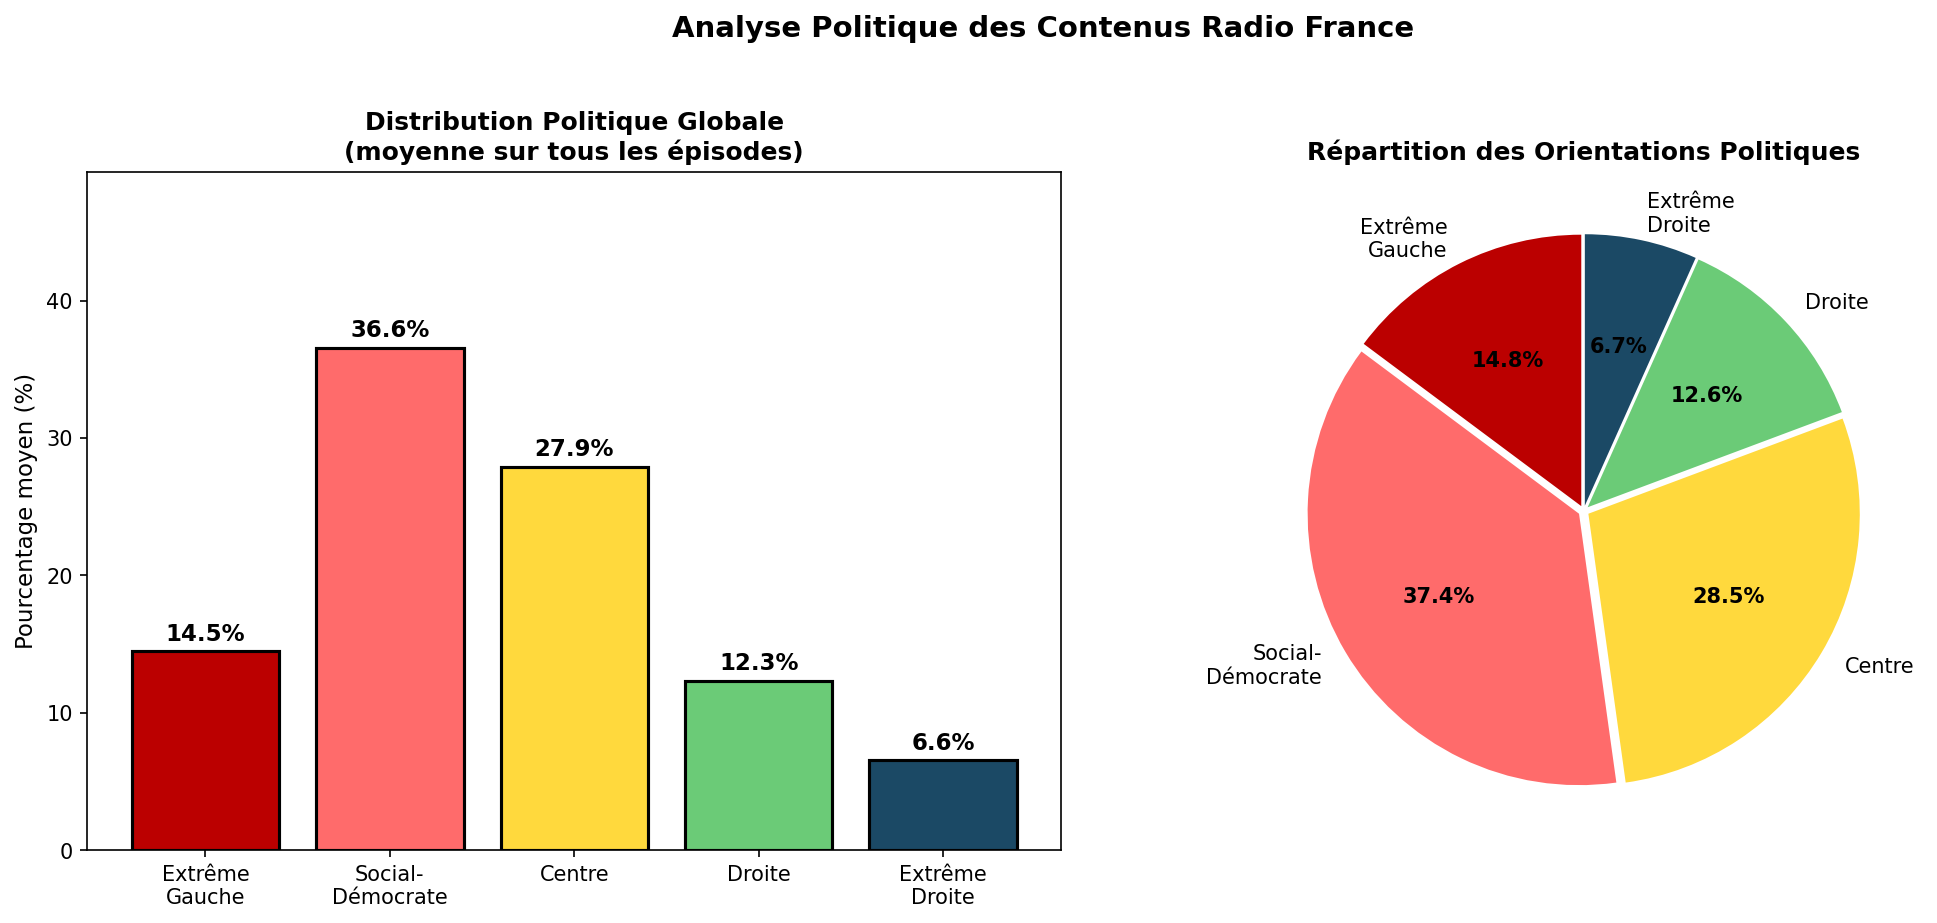
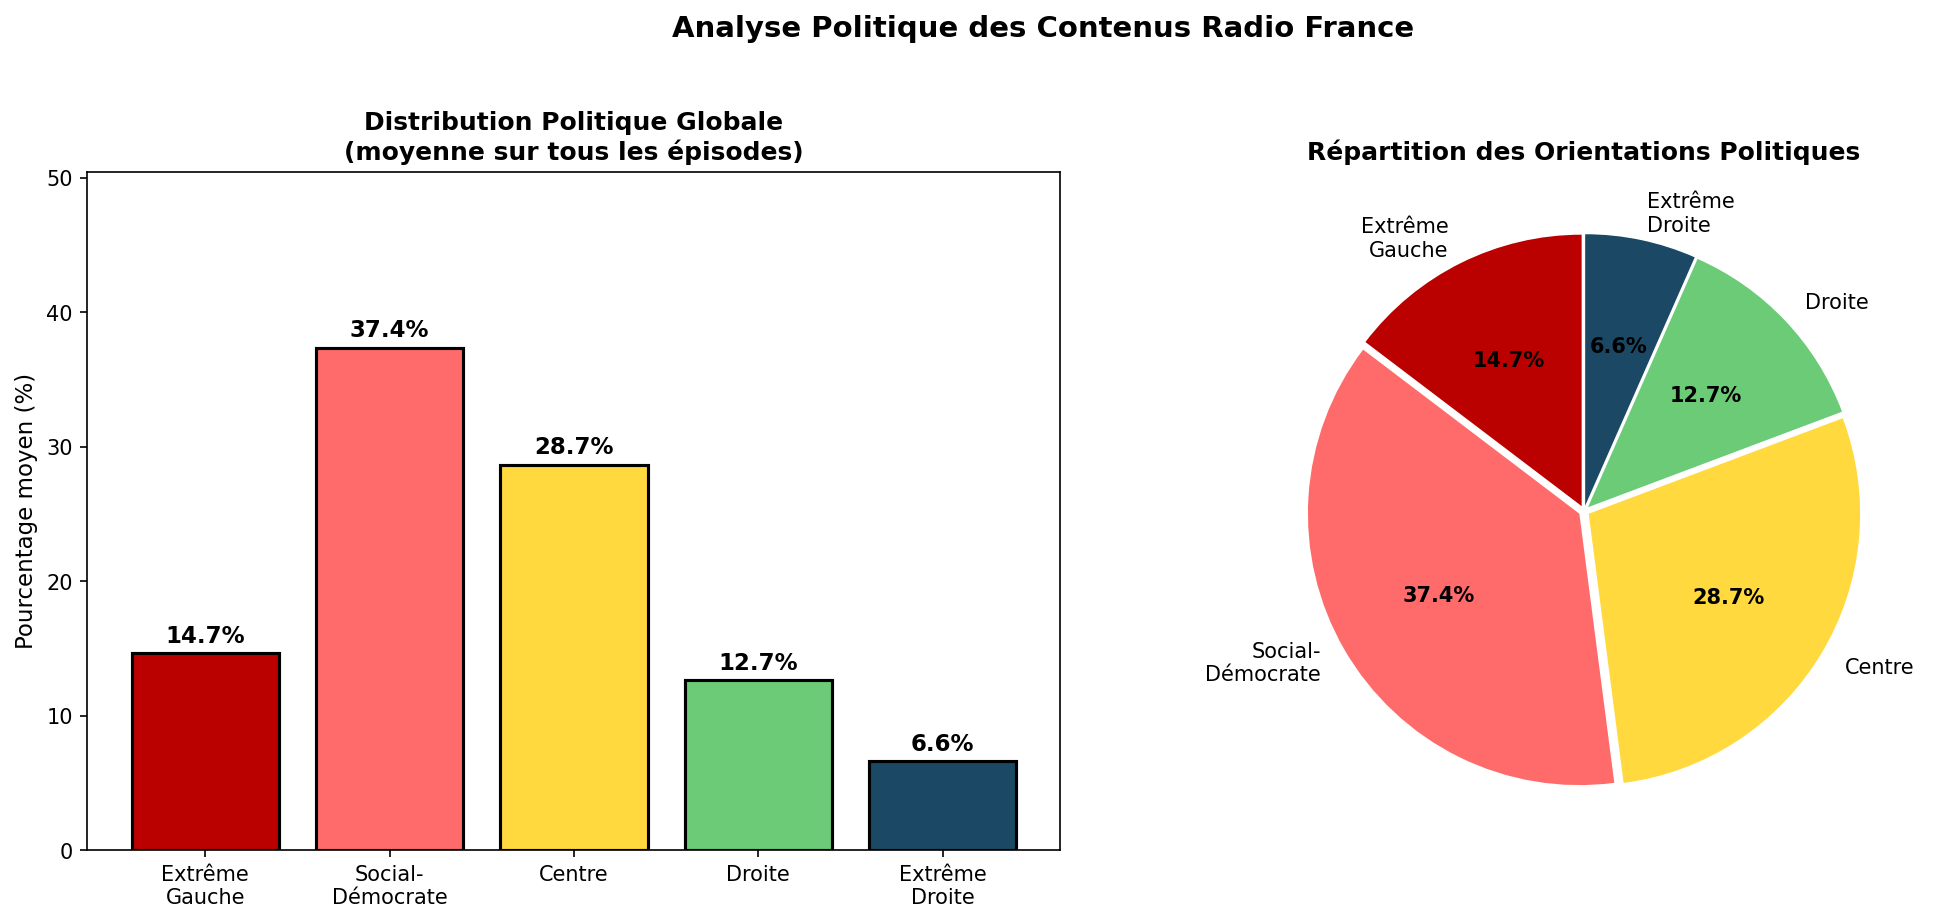
fix(readme): improved Readme

diff --git a/README.md b/README.md
@@ -43,11 +43,14 @@ Ce projet analyse automatiquement l'orientation politique des émissions de Fran
 
 | Orientation          | Pourcentage |
 | -------------------- | :---------: |
-| Extrême gauche       |    14,5%    |
-| **Social-démocrate** |  **36,6%**  |
-| Centre               |    27,9%    |
-| Droite               |    12,3%    |
+| Extrême gauche       |    14,7%    |
+| **Social-démocrate** |  **37,4%**  |
+| Centre               |    28,7%    |
+| Droite               |    12,7%    |
 | Extrême droite       |    6,6%     |
+
+**Total Gauche** (Extrême gauche + Social-démocrate) : **52,1%**  
+**Total Droite** (Droite + Extrême droite) : **19,3%**
 
 ### Biais éditorial détecté
 
@@ -202,13 +205,13 @@ Pour valider la calibration, nous recommandons de tester avec des discours de pe
 2. **Uploadez** sur Google Drive et récupérez le lien de partage
 3. **Convertissez** le lien :
 
-   ```
+```
    # Lien de partage :
    https://drive.google.com/file/d/XXXXX/view?usp=sharing
 
    # Lien de téléchargement direct :
    https://drive.google.com/uc?export=download&id=XXXXX
-   ```
+```
 
 4. **Exécutez** `calibration.ipynb` avec cette URL
 5. **Comparez** le résultat avec l'orientation attendue
@@ -259,7 +262,6 @@ https://...,L'édito politique,Titre de l'épisode,2024-01-15,Description...,Fal
 radiofrance-analysis/
 ├── 📓 radiofrance.ipynb           # Notebook principal (transcription + analyse)
 ├── 📓 calibration.ipynb           # Notebook de test/calibration du modèle
-├── 📓 visualization.ipynb         # Notebook de visualisation des résultats
 │
 ├── 📄 franceinter.csv             # Données d'entrée (URLs des épisodes)
 ├── 📄 transcription_results.json  # Transcriptions avec diarisation
@@ -282,31 +284,67 @@ radiofrance-analysis/
 
 ### Limites méthodologiques
 
-| Limite                     | Description                                          | Impact |
-| -------------------------- | ---------------------------------------------------- | ------ |
-| **Erreurs de calcul LLM**  | La répartition politique n'atteint pas toujours 100% | Moyen  |
-| **Subjectivité du prompt** | Le prompt influence les résultats                    | Élevé  |
-| **Granularité temporelle** | Analyse par émission, pas à la minute                | Moyen  |
-| **Un seul LLM**            | Biais spécifiques à GPT-4.1-mini                     | Élevé  |
+- **Erreurs de calcul du LLM** : Les pourcentages de répartition politique n'atteignent pas toujours exactement 100%. Un système de normalisation a été implémenté pour corriger ces écarts, mais cela introduit une légère approximation dans les scores finaux.
+
+- **Subjectivité du prompt** : Le prompt d'analyse peut être discutable et influence fortement les résultats. Le choix des termes, des exemples et de la structure du prompt constitue un biais inhérent à la méthode.
+
+- **Granularité temporelle** : Analyse par épisode complet plutôt que par minute, sans pondération par temps de parole. Un intervenant parlant 30 secondes a le même poids qu'un intervenant parlant 30 minutes dans le calcul final.
+
+- **Modèle unique** : Utilisation d'un seul LLM (GPT-4.1-mini) avec ses biais propres. Les modèles de langage reflètent les biais de leurs données d'entraînement et peuvent avoir des sensibilités différentes selon les sujets.
+
+- **Qualité de transcription** : Qualité variable avec des scores de confiance parfois bas (0,2-0,5). Les erreurs de transcription peuvent impacter l'analyse politique, notamment sur les termes techniques ou les noms propres.
+
+- **Taille de l'échantillon** : L'analyse porte sur un échantillon spécifique de 145 épisodes qui nécessite une documentation complète pour permettre la reproductibilité et l'évaluation de la représentativité.
+
+- **Catégorisation simplifiée** : 5 catégories pour représenter un spectre politique complexe. Cette simplification peut masquer des nuances importantes et des positions hybrides.
+
+- **Absence de pondération contextuelle** : Le système ne distingue pas entre les propos rapportés (citations) et les opinions exprimées directement par les intervenants.
 
 ### Limites techniques
 
-| Limite                       | Description                                     | Impact |
-| ---------------------------- | ----------------------------------------------- | ------ |
-| **Biais du modèle**          | Reflète les biais d'entraînement                | Moyen  |
-| **Diarisation**              | Erreurs possibles lors d'échanges rapides       | Faible |
-| **Catégories simplifiées**   | 5 catégories pour un spectre complexe           | Moyen  |
-| **Neutralité = 20% partout** | Peut ne pas refléter un vrai contenu apolitique | Faible |
+- **Biais du modèle** : Reflète les biais d'entraînement de GPT-4.1-mini, notamment sur les sujets contemporains ou controversés.
+
+- **Diarisation imparfaite** : Erreurs possibles lors d'échanges rapides, de chevauchements de voix ou de changements de locuteurs fréquents.
+
+- **Neutralité = 20% partout** : Un locuteur neutre est codé avec 20% sur chaque catégorie, ce qui peut ne pas refléter un vrai contenu apolitique ou strictement factuel. Cette stratégie tend à sur représenter ceux qui sont sous représenter.
+
+- **Pas de vérification humaine systématique** : Absence de validation par des annotateurs humains pour établir un ground truth et mesurer la précision réelle du système.
 
 ## 🔧 Pistes d'amélioration
 
-- [ ] Valider que chaque répartition totalise 100%
-- [ ] Utiliser 3-4 LLMs (Claude, Gemini, Llama) et agréger les résultats
-- [ ] Intégrer une analyse temporelle (pondération par temps de parole)
-- [ ] Faire valider le prompt par des experts en sciences politiques
-- [ ] Comparer avec des annotations humaines sur un échantillon témoin
-- [ ] Ajouter une analyse de sentiment plus fine
-- [ ] Étendre à d'autres stations (France Culture, France Info, RTL, Europe 1)
+### Améliorations méthodologiques prioritaires
+
+- **Validation croisée multi-modèles** : Utiliser 3-4 LLMs différents (Claude, Gemini, Llama) et agréger les résultats pour plus de robustesse. Permet de réduire les biais spécifiques à un modèle unique.
+
+- **Pondération temporelle** : Analyser minute par minute et pondérer selon le temps de parole effectif de chaque intervenant. Donnerait un poids proportionnel à l'exposition médiatique réelle.
+
+- **Système de validation automatique** : Vérifier automatiquement que les pourcentages totalisent exactement 100% et corriger les écarts par normalisation proportionnelle systématique.
+
+- **Validation humaine avec ground truth** : Comparer avec des annotations humaines sur un échantillon témoin (50-100 épisodes) pour établir des métriques de précision (accuracy, F1-score) et identifier les cas d'erreur systématique.
+
+- **Revue par des experts en sciences politiques** : Faire valider le prompt, les catégories et la méthodologie par des chercheurs en sciences politiques pour garantir la pertinence académique.
+
+### Améliorations techniques
+
+- **Documentation précise de l'échantillonnage** : Documenter en détail la méthode de sélection des épisodes, les critères d'inclusion/exclusion, et les biais potentiels de l'échantillon.
+
+- **Distinction citation/opinion** : Implémenter un système pour différencier les propos rapportés des opinions directement exprimées par les locuteurs.
+
+- **Analyse de l'incertitude** : Ajouter des intervalles de confiance sur chaque score politique pour quantifier l'incertitude du modèle.
+
+- **Tracking longitudinal** : Analyser l'évolution temporelle des orientations pour détecter d'éventuels changements de ligne éditoriale.
+
+- **Analyse comparative inter-médias** : Étendre la méthode à d'autres stations (France Culture, France Info, RTL, Europe 1) pour permettre des comparaisons.
+
+### Améliorations de l'analyse
+
+- **Analyse de sentiment fine** : Intégrer une analyse de sentiment (positif/négatif/neutre) en complément de l'orientation politique.
+
+- **Détection des figures rhétoriques** : Identifier l'usage d'ironie, de sarcasme ou de second degré qui peut fausser l'analyse littérale.
+
+- **Analyse des sujets traités** : Corréler les orientations politiques détectées avec les thématiques abordées (économie, environnement, société, international).
+
+- **Mesure du pluralisme affiné** : Développer des métriques plus sophistiquées du pluralisme (indice de Herfindahl-Hirschman, entropie de Shannon) au-delà de l'écart-type simple.
 
 ## 📈 Visualisations générées
 
@@ -356,8 +394,8 @@ Si vous utilisez ce travail dans vos recherches, merci de citer :
 ```bibtex
 @software{radiofrance_analysis,
   title = {Analyse du Biais Politique de France Inter},
-  author = {Gabay, Benjamin},
-  year = {2024},
+  author = {Gabay, Benjamin and Anonymous Dolphin},
+  year = {2025},
   url = {https://github.com/votre-username/radiofrance-analysis}
 }
 ```
@@ -366,7 +404,7 @@ Si vous utilisez ce travail dans vos recherches, merci de citer :
 
 <p align="center">
   <b>⚠ Avertissement</b><br>
-  <i>Cette étude est un projet de recherche exploratoire. Les résultats doivent être interprétés avec prudence compte tenu des limites méthodologiques identifiées. Ce projet n'a pas vocation à porter un jugement définitif sur la ligne éditoriale de France Inter.</i>
+  <i>Cette étude est un projet de recherche exploratoire réalisé en 24 heures dans le cadre d'un hackathon personnel. Les résultats doivent être interprétés avec prudence compte tenu des limites méthodologiques identifiées. Ce projet n'a pas vocation à porter un jugement définitif sur la ligne éditoriale de France Inter, mais à explorer les possibilités d'analyse automatisée du contenu médiatique.</i>
 </p>
 
 ---
